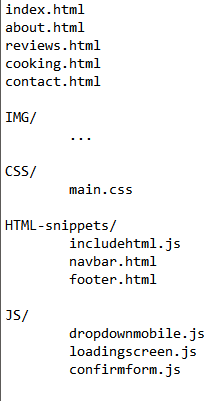
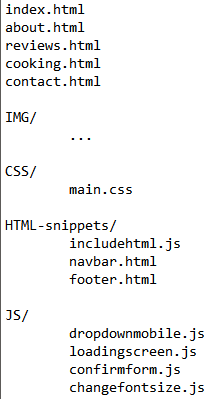
Endret noen småting i teksten

diff --git a/Documents/P2_design_4.html b/Documents/P2_design_4.html
@@ -18,18 +18,18 @@
             <div  class="section">
                     <h2>Administrative details</h2>
                     <p>Vår imaginære kunde er Dr. Oetker.
-                        Med tillatelse fra Dr. Oetker Norge kan vi bruke navn og bilder av 
+                        Med tillatelse fra Dr. Oetker Norge kan vi bruke navn og bilder av
                         produktet deres Diavola Calabrese.
-                            
+
                     </p>
             </div>
             <div class="section">
                 <div>
                     <h2>Purpose, goals and audience</h2>
-                    <p>Vi har valgt å bruke pizzaen “Diavola Calabrese” som tema for vår nettside. Kunden ønsker 
-                        å fremme kjærlighet og interesse for deres pizza. Målet nås ved å informere, vise til 
-                        positive kundeomtaler, komme med tilberednings- og serveringstips og mulighet for kontakt. 
-                        Påmelding til nyhetsbrev vil også være mulig. Målgruppen er de som liker Diavola Calabrese, 
+                    <p>Vi har valgt å bruke pizzaen “Diavola Calabrese” som tema for vår nettside. Kunden ønsker
+                        å fremme kjærlighet og interesse for deres pizza. Målet nås ved å informere, vise til
+                        positive kundeomtaler, komme med tilberednings- og serveringstips og mulighet for kontakt.
+                        Påmelding til nyhetsbrev vil også være mulig. Målgruppen er de som liker Diavola Calabrese,
                         de som ønsker informasjon om den og de som generelt er glade i pizza.
                     </p>
                 </div>
@@ -37,13 +37,13 @@
             <div class="section">
                 <div>
                     <h2>Navigation structure</h2>
-                    <p>Med mål om å spre informasjon om Diavola Calabrese på en lett 
-                        og oversiktlig måte, vil alle sider på nettsiden være tilgjengelig 
-                        fra hvilken som helst side man er på. Alle linkene til alle sidene 
-                        vil være i navigasjonsbaren øverst på siden. I navigasjonsbaren vil 
-                        ha link til fem sider; hjem, om pizzaen, omtaler, tilberedning, kontakt. 
-                        Det vil også være mulig å komme tilbake til hovedsiden ved å trykke på 
-                        navnet “Diavola calabrese” som kommer til å være øverst til venstre. Dette 
+                    <p>Med mål om å spre informasjon om Diavola Calabrese på en lett
+                        og oversiktlig måte, vil alle sider på nettsiden være tilgjengelig
+                        fra hvilken som helst side man er på. Alle linkene til alle sidene
+                        vil være i navigasjonsbaren øverst på siden. I navigasjonsbaren vil
+                        ha link til fem sider; hjem, om pizzaen, omtaler, tilberedning, kontakt.
+                        Det vil også være mulig å komme tilbake til hovedsiden ved å trykke på
+                        navnet “Diavola calabrese” som kommer til å være øverst til venstre. Dette
                         er for å gjøre det enklest mulig for besøkende å komme tilbake til startsiden.
                     </p>
                 </div>
@@ -58,28 +58,28 @@
 
                     <h3>Tekst, farge og layout</h3>
                     <p>
-                        For å gjøre siden mest mulig oversiktlig og enkel å navigere vil 
-                        vi ha et fast oppsett på alle sidene, der vi legger vekt på brukervennlighet. 
+                        For å gjøre siden mest mulig oversiktlig og enkel å navigere vil
+                        vi ha et fast oppsett på alle sidene, der vi legger vekt på brukervennlighet.
                         All tekst har hvit farge, bortsett fra i sitat og i kundeomtaler.
                     </p>
                     <ul>
-                        <li><strong>Segoe Script:</strong>, størrelse 28</li>
-                        <li><strong>Navigasjonstekst:</strong>, størrelse 28 “Bahnschrift Semicondensed”, 
+                        <li><strong>Logo:</strong> "Segoe Script", størrelse 28</li>
+                        <li><strong>Navigasjonstekst:</strong> “Bahnschrift Semicondensed”,
                             størrelse 20, store bokstaver</li>
-                        <li><strong>h1:</strong>, størrelse 22, store bokstaver</li>
-                        <li><strong>Tekst (innhold):</strong>, “Bahnschrift”, størrelse 12</li>
-                        <li><strong>Footertekst:</strong>, “Bahnschrift”, størrelse 12</li>
-                        <li><strong>Sitat:</strong>, “Cooper Black”, forskjellige størrelser</li>
+                        <li><strong>h1:</strong> "Bahnschrift", størrelse 22, store bokstaver</li>
+                        <li><strong>Tekst (innhold):</strong> “Bahnschrift”, størrelse 12</li>
+                        <li><strong>Footertekst:</strong> “Bahnschrift”, størrelse 12</li>
+                        <li><strong>Sitat:</strong> “Cooper Black”, forskjellige størrelser</li>
                     </ul>
                     <p>
-                        Det er viktig for oss å tydelig signalisere hva slags type side dette er, dette 
-                        ved bruk av andre hjelpemidler enn bare bilder. Både farger, fonter og layout skal 
-                        gi assosiasjoner til pizza eller Italia. Vi har derfor valgt stilrene fonter, og 
+                        Det er viktig for oss å tydelig signalisere hva slags type side dette er, dette
+                        ved bruk av andre hjelpemidler enn bare bilder. Både farger, fonter og layout skal
+                        gi assosiasjoner til pizza eller Italia. Vi har derfor valgt stilrene fonter, og
                         varme farger som finnes i pizza (se fargeskjema).
                     </p>
                     <ul>
                         <li>Nettsiden vil ha bakgrunnsfargen “isabelline” (#EAEFEC).</li>
-                        <li>Content-boksene vil ha bakgrunnsfargene “deep spring bud” (#5D6C3C), “ruddy brown” 
+                        <li>Content-boksene vil ha bakgrunnsfargene “deep spring bud” (#5D6C3C), “ruddy brown”
                             (#CC6328), eller “meat brown” (#F0AF3B).</li>
                         <li>Omtaler-boksene og sitat-boksene vil ha bakgrunnsfarge #E5E5E5 (ikke i fargeskjema).</li>
                         <li>Anførselstegn i sitat-blokken vil ha farge “flavescent” (#F8D78E).</li>
@@ -88,7 +88,7 @@
                         <li>Footeren vil ha bakgrunnsfargen “onyx” (#393939).</li>
                     </ul>
                     <p>
-                        Navigasjonsbaren øverst på siden vil ha et repeterende bakgrunnsbilde, et mønster, 
+                        Navigasjonsbaren øverst på siden vil ha et repeterende bakgrunnsbilde, et mønster,
                         som vist i standardoppsettet for nettsiden.
                     </p>
                     <p>
@@ -104,9 +104,9 @@
                 <b>Det er her vi skal vise hvordan siden vil komme til å se ut:</b>
                 <div id="Hjem">
                     <h3>Hjem</h3>
-                    <p>Dette er startsiden på nettsiden og vil være det første brukeren vil se. Det er 
-                        derfor viktig å fange oppmerksomheten til de som besøker siden, dette tenker vi 
-                        å gjøre med et innbydende bilde av pizzaen Diavola Calabrese, et inspirerende sitat 
+                    <p>Dette er startsiden på nettsiden og vil være det første brukeren vil se. Det er
+                        derfor viktig å fange oppmerksomheten til de som besøker siden, dette tenker vi
+                        å gjøre med et innbydende bilde av pizzaen Diavola Calabrese, et inspirerende sitat
                         og kort informasjon om pizzaen.
                     </p>
 
@@ -115,8 +115,8 @@
                 </div>
                 <div id="Om">
                     <h3>Om</h3>
-                    <p>Her kommer mer dyptgående informasjon om pizzaen og dens historie. På denne siden vil 
-                        det være to tekstbokser; en med informasjon om pizzaen og en med informasjon om selskapet 
+                    <p>Her kommer mer dyptgående informasjon om pizzaen og dens historie. På denne siden vil
+                        det være to tekstbokser; en med informasjon om pizzaen og en med informasjon om selskapet
                         bak, Dr Oetker.
                     </p>
 
@@ -125,9 +125,9 @@
                 </div>
                 <div id="Omtaler">
                     <h3>Omtaler</h3>
-                    <p>Hva syns de som har spist Diavola Calabrese? Den beste måten å finne ut om denne pizzaen er 
-                        noe du burde prøve er å lese om hva andre mener om den. Her vil det være omtaler og anmeldelser 
-                        fra de som har spist denne pizzaen. Ratingen er satt opp med små pizzaer i stedet for stjerner 
+                    <p>Hva syns de som har spist Diavola Calabrese? Den beste måten å finne ut om denne pizzaen er
+                        noe du burde prøve er å lese om hva andre mener om den. Her vil det være omtaler og anmeldelser
+                        fra de som har spist denne pizzaen. Ratingen er satt opp med små pizzaer i stedet for stjerner
                         som vanligvis brukes, for å ha et gjennomførende tema.
                     </p>
 
@@ -136,10 +136,10 @@
                 </div>
                 <div id="Tilberedning">
                     <h3>Tilberedning</h3>
-                    <p>På denne siden vil det være tips om servering og tilberedning av pizzaen. 
-                        En enkel guide med bilder og tekst vil forklare hvordan man skal steke pizzaen 
-                        på rett måte. Det er viktig for oss å ha med dette for å sikre at alle skal få 
-                        en best mulig opplevelse med Diavola Calabrese. Bildene gjør innholdet tilgjengelig 
+                    <p>På denne siden vil det være tips om servering og tilberedning av pizzaen.
+                        En enkel guide med bilder og tekst vil forklare hvordan man skal steke pizzaen
+                        på rett måte. Det er viktig for oss å ha med dette for å sikre at alle skal få
+                        en best mulig opplevelse med Diavola Calabrese. Bildene gjør innholdet tilgjengelig
                         også for de som ikke kan lese eller har et annet morsmål enn norsk.
                     </p>
 
@@ -148,12 +148,12 @@
                 </div>
                 <div id="Kontakt">
                     <h3>Kontakt</h3>
-                    <p>Kontaktsiden skal inneholde et segment der man kan sende inn e-post til selskapet 
-                        med spørsmål, henvendelser o.l. Et annet segment på kontaktsiden skal være mulighet 
-                        for å melde seg på en e-postliste med nyhetsbrev. Gjennom nyhetsbrevene vil man få 
-                        tilbud, tips, nyheter osv. fra Dr. Oetker. Grunnen til at kontaktlisten er viktig for 
-                        vår kunde er for å holde en god kommunikasjonsflyt mellom kundene og selskapet. Det er 
-                        viktig for Dr. Oetker å vise kundene på en tydelig måte at de er åpne for innspill og 
+                    <p>Kontaktsiden skal inneholde et segment der man kan sende inn e-post til selskapet
+                        med spørsmål, henvendelser o.l. Et annet segment på kontaktsiden skal være mulighet
+                        for å melde seg på en e-postliste med nyhetsbrev. Gjennom nyhetsbrevene vil man få
+                        tilbud, tips, nyheter osv. fra Dr. Oetker. Grunnen til at kontaktlisten er viktig for
+                        vår kunde er for å holde en god kommunikasjonsflyt mellom kundene og selskapet. Det er
+                        viktig for Dr. Oetker å vise kundene på en tydelig måte at de er åpne for innspill og
                         tilbakemeldinger.
                     </p>
 
@@ -167,7 +167,7 @@
                     <ul>
                         <li>Knapp for dropdown-meny for mobil
                             <ul>
-                                <li>En javascript-funksjon som fungerer på mobilversjonen av 
+                                <li>En javascript-funksjon som fungerer på mobilversjonen av
                                     nettsiden. Når knappen trykkes vil menyen komme opp.
                                 </li>
                             </ul>
@@ -175,12 +175,12 @@
                         <li>Modularitet
                             <ul>
                                 <li>
-                                    En javascript-funksjon som hindrer gjenbruk av kode. 
+                                    En javascript-funksjon som hindrer gjenbruk av kode.
                                     Denne vil implementere navigasjonsbaren og footeren til alle sidene.
                                 </li>
                             </ul>
                         </li>
-                        <li>Loading screen -  pizza som snurrer 
+                        <li>Loading screen -  pizza som snurrer
                             <ul>
                                 <li>
                                     En javascript-funksjon som gir brukeren indikasjon på at nettsiden lastes inn.
@@ -191,7 +191,7 @@
                             Bekreft innsending av kontaktskjema og nyhetsbrev-skjema
                             <ul>
                                 <li>
-                                    En javascript-funksjon som gjør at det kommer opp en bekreftelse på at 
+                                    En javascript-funksjon som gjør at det kommer opp en bekreftelse på at
                                     innsending av skjema er mottatt.
                                 </li>
                             </ul>
@@ -199,7 +199,7 @@
                         <li>Endre skriftstørrelse
                             <ul>
                                 <li>
-                                    En javascriptfunksjon som gjør at skriftstørrelsene på nettsiden endres. 
+                                    En javascriptfunksjon som gjør at skriftstørrelsene på nettsiden endres.
                                     Det vil være to muligheter, enten den vanlige fontstørrelsen eller en større.
                                 </li>
                             </ul>
@@ -227,21 +227,21 @@
                                 <td>28.10</td>
                             </tr>
                             <tr>
-                                
+
                                 <td>contact.html</td>
                                 <td>Inneholder all kontaktinformasjonen</td>
                                 <td>Runar</td>
                                 <td>28.10</td>
                             </tr>
                             <tr>
-                                
+
                                 <td>index.html</td>
                                 <td>Hovedsiden på nettstedet</td>
                                 <td>Christopher</td>
                                 <td>28.10</td>
                             </tr>
                             <tr>
-                                
+
                                 <td>reviews.html</td>
                                 <td>Omtaler</td>
                                 <td>Runar</td>
@@ -276,6 +276,30 @@
                                 <td>HTML-snippet for footer. Inkluderes vha. JS</td>
                                 <td>Sander</td>
                                 <td>21.10</td>
+                            </tr>
+                            <tr>
+                                <td>dropdownmobile.js</td>
+                                <td>JavaScript for dropdown-funksjon</td>
+                                <td>Bendik</td>
+                                <td>28.10</td>
+                            </tr>
+                            <tr>
+                                <td>loadingscreen.js</td>
+                                <td>JavaScript for loading screen</td>
+                                <td>Runar</td>
+                                <td>28.10</td>
+                            </tr>
+                            <tr>
+                                <td>confirmform.js</td>
+                                <td>JavaScript for å bekrefte innsending av form</td>
+                                <td>Alle</td>
+                                <td>28.10</td>
+                            </tr>
+                            <tr>
+                                <td>changefontsize.js</td>
+                                <td>JavaScript for å endre skriftstørrelse</td>
+                                <td>Bendik</td>
+                                <td>28.10</td>
                             </tr>
                             <tr>
                                 <td>Bilder</td>
